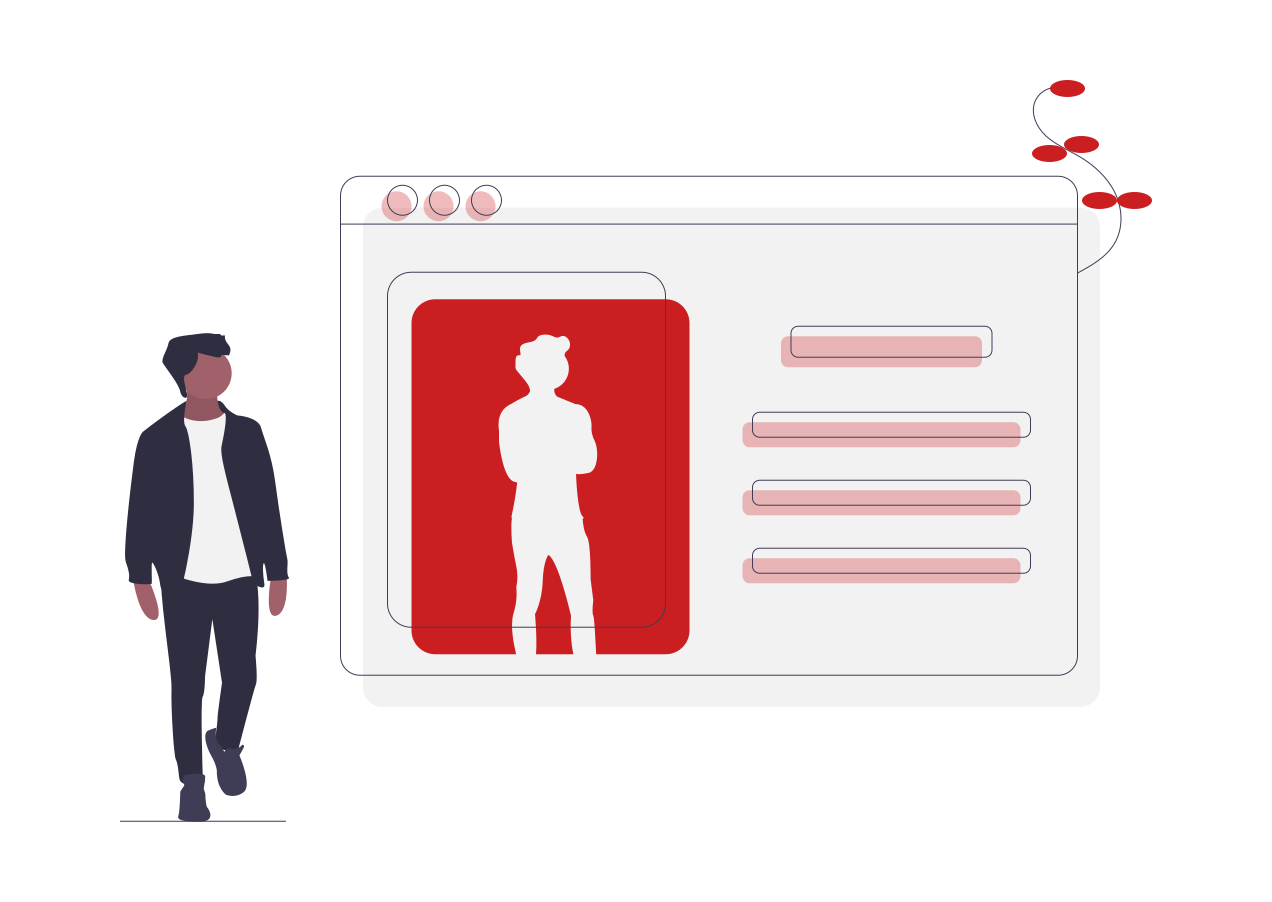
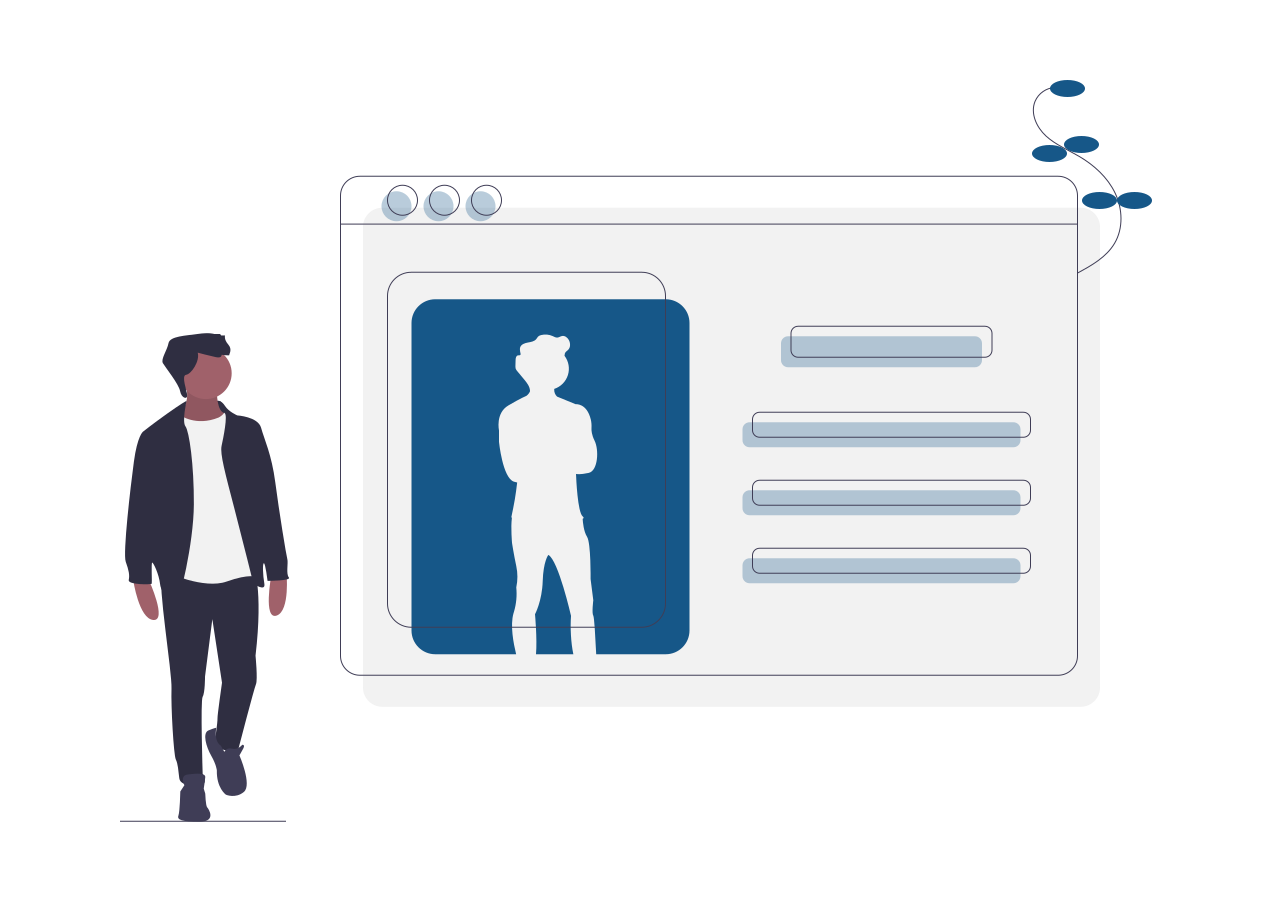
Bugfix - Theme Colour (#141)
* bugfix: fixed the default owner story

* bugfix: read owner biography instead of read restaurant bio

* bugfix: fixed the default owner story found in the front page

* bugfix: changed logo to match the approved ones by client

* bugfix: fixed icon showing up for ' ' as external delivery link

* bugfix: initial change of primary & secondary colours

* bugfix: linked footer links

* bugfix: changed webpage logo and name

* bugfix: changed Scarborough Dining to Find Dining Scarborough

* bugfix: fixed image colours to blue

* bugfix: changed navbar to go from chefs to owner stories

* bugfix: updated the footer logo image

diff --git a/client-server/src/app/components/footer/footer.component.html b/client-server/src/app/components/footer/footer.component.html
@@ -6,9 +6,15 @@
         <a class="footer-links" href="#" target="_blank">FAQ</a>
       </div>
       <div class="col">
-        <a class="footer-links" href="#" target="_blank">Restaurant Owners</a>
+        <a
+          class="footer-links"
+          routerLink="all-owners"
+          routerLinkActive="active"
+          target="_blank"
+          >Restaurant Owners</a
+        >
         <br />
-        <a class="footer-links" href="#" target="_blank">Become a Partner</a>
+        <a class="footer-links" (click)="auth.login()">Become a Partner</a>
       </div>
       <div class="col">
         <a class="footer-links" href="#" target="_blank">
@@ -25,12 +31,22 @@
     <br />
     <hr style="background-color: grey;" />
     <div class="footer-bottom-content">
-      <a class="footer-links" href="#" target="_blank">Terms of Service</a>
-      <a class="footer-links" href="#" target="_blank">Privacy Policy</a>
-      <p>
-        <br />
-        © 2020 Team Aqua
-      </p>
+      <div class="row">
+        <div class="col">
+          <img
+            src="assets/images/find_dining_sponsers.png"
+            class="footer-logo"
+          />
+          <p>
+            <br />
+            © 2020 Team Aqua
+          </p>
+        </div>
+        <div class="col">
+          <a class="footer-links" href="#" target="_blank">Terms of Service</a>
+          <a class="footer-links" href="#" target="_blank">Privacy Policy</a>
+        </div>
+      </div>
     </div>
   </div>
 </footer>

diff --git a/client-server/src/app/components/map/map.component.ts b/client-server/src/app/components/map/map.component.ts
@@ -44,7 +44,7 @@ export class MapComponent implements OnInit {
         map.addControl(new mapboxgl.NavigationControl());
 
         // Add map markers
-        var marker = new mapboxgl.Marker({ color: '#FF0000' })
+        var marker = new mapboxgl.Marker({ color: '#0000FF' })
           .setLngLat([position.coords.longitude, position.coords.latitude])
           .setPopup(new mapboxgl.Popup().setHTML('<p>You are here!</p>'))
           .addTo(map);
@@ -54,7 +54,7 @@ export class MapComponent implements OnInit {
           var GEOJson = JSON.parse(index.GEO_location.replace(/\'/g, '"'));
 
           if (index.GEO_location != 'blank' && GEOJson.long != undefined) {
-            var marker = new mapboxgl.Marker({ color: '#CB1E21' })
+            var marker = new mapboxgl.Marker({ color: '#165788' })
               .setLngLat([GEOJson.long, GEOJson.lat])
               .setPopup(
                 new mapboxgl.Popup().setHTML(

diff --git a/client-server/src/app/components/navbar/navbar.component.html b/client-server/src/app/components/navbar/navbar.component.html
@@ -1,5 +1,6 @@
 <nav class="navbar navbar-expand-lg">
-  <img src="../../../assets/images/scarborough_dining.png" class="logo" />
+  <img src="../../../assets/images/find_dining_logo.png" class="logo" />
+  <img src="../../../assets/images/find_dining_name.png" class="name" />
   <button
     class="navbar-toggler"
     type="button"
@@ -57,7 +58,7 @@
               Timeline
             </button>
             <button ngbDropdownItem (click)="owners()">
-              Chefs
+              Owner Stories
             </button>
           </div>
         </div>
@@ -75,7 +76,7 @@
       </li>
       <li class="nav-item nav-link" *ngIf="!auth.loggedIn">
         <a routerLinkActive="active" class="nav-link" (click)="owners()">
-          CHEFS
+          OWNER STORIES
         </a>
       </li>
       <li *ngIf="role == 'BU'" class="nav-item nav-link">

diff --git a/client-server/src/app/pages/home/home.component.html b/client-server/src/app/pages/home/home.component.html
@@ -89,7 +89,7 @@
     <div class="carousel-caption d-none d-md-block">
       <h2>Something for Everyone</h2>
       <p>
-        Scarborough Dining has a wide variety of cuisines to cater for all
+        Find Dining Scarborough has a wide variety of cuisines to cater for all
         dietrary restrictions
       </p>
     </div>
@@ -149,8 +149,8 @@
     />
     <h2>Connect</h2>
     <p>
-      Become a partner of Scarborough Dining to help spread awareness of great
-      cuisines in Scarborough.
+      Become a partner of Find Dining Scarborough to help spread awareness of
+      great cuisines in Scarborough.
     </p>
   </div>
   <div class="col overview-grid">

diff --git a/client-server/src/styles.scss b/client-server/src/styles.scss
@@ -1,16 +1,16 @@
 @import "~@angular/material/theming";
 @include mat-core();
 
-$client-theme-primary: mat-palette($mat-red);
-$client-theme-accent: mat-palette($mat-pink, A200, A100, A400);
+$client-theme-primary: mat-palette($mat-blue);
+$client-theme-accent: mat-palette($mat-blue, A200, A100, A400);
 $client-theme-theme: mat-light-theme(
   $client-theme-primary,
   $client-theme-accent
 );
 @include angular-material-theme($client-theme-theme);
 
-$primary-color: rgb(155, 50, 50);
-$secondary-color: rgb(189, 96, 96);
+$primary-color: rgb(22, 87, 136);
+$secondary-color: rgb(0, 153, 204);
 $dark-color: rgb(7, 27, 48);
 $grey-color: #dddddd;
 

diff --git a/client-server/src/app/components/navbar/navbar.component.ts b/client-server/src/app/components/navbar/navbar.component.ts
@@ -14,7 +14,7 @@ import { NgbModal } from '@ng-bootstrap/ng-bootstrap';
   styleUrls: ['./navbar.component.scss'],
 })
 export class NavbarComponent implements OnInit, AfterViewInit {
-  title: string = 'Scarborough Dining';
+  title: string = 'Find Dining Scarborough';
 
   restaurantId: string = '';
   role: string = '';
@@ -39,7 +39,7 @@ export class NavbarComponent implements OnInit, AfterViewInit {
     if (window.innerWidth < 650) {
       this.title = 'SDining';
     } else {
-      this.title = 'Scarborough Dining';
+      this.title = 'Find Dining Scarborough';
     }
   }
 

diff --git a/client-server/src/app/pages/all-owners/all-owners.component.html b/client-server/src/app/pages/all-owners/all-owners.component.html
@@ -1,7 +1,7 @@
 <div class="owner-page">
   <div class="owner-listings-box">
-    <h2>Scarborough Dining Owners</h2>
-    <p>Meet the faces of Scarborough Dining and their culinary story</p>
+    <h2>Find Dining Scarborough Owners</h2>
+    <p>Meet the faces of Find Dining Scarborough and their culinary story</p>
     <div class="row">
       <div class="col-md-1"></div>
       <div class="col-md-10">

diff --git a/client-server/src/app/components/footer/footer.component.ts b/client-server/src/app/components/footer/footer.component.ts
@@ -1,4 +1,5 @@
 import { Component, OnInit } from '@angular/core';
+import { AuthService } from '../../auth/auth.service';
 import {
   faFacebookSquare,
   faTwitter,
@@ -15,7 +16,7 @@ export class FooterComponent implements OnInit {
   faTwitter = faTwitter;
   faInstagram = faInstagram;
 
-  constructor() {}
+  constructor(public auth: AuthService) {}
 
   ngOnInit(): void {}
 }

diff --git a/client-server/src/app/components/footer/footer.component.scss b/client-server/src/app/components/footer/footer.component.scss
@@ -12,7 +12,7 @@ footer {
   color: $footer-text-color;
 
   @media screen and (max-width: 700px) {
-    margin: 30px;
+    margin: 20px;
   }
 }
 
@@ -37,4 +37,13 @@ footer {
 
 .footer-icons:hover {
   color: white;
+}
+
+.footer-logo {
+  width: 250px;
+  height: auto;
+
+  @media screen and (max-width: 700px) {
+    width: 100px;
+  }
 }

diff --git a/client-server/src/index.html b/client-server/src/index.html
@@ -2,7 +2,7 @@
 <html lang="en">
   <head>
     <meta charset="utf-8" />
-    <title>Scarborough Dining</title>
+    <title>Find Dining Scarborough</title>
     <base href="/" />
     <meta name="viewport" content="width=device-width, initial-scale=1" />
     <link rel="icon" type="image/x-icon" href="favicon.ico" />

diff --git a/client-server/src/app/pages/payment/payment.component.html b/client-server/src/app/pages/payment/payment.component.html
@@ -170,7 +170,7 @@
         </div>
       </div>
       <div class="submit">
-        <button class="btn btn-outline-secondary">Pay Now!</button>
+        <button class="btn">Pay Now!</button>
       </div>
     </form>
   </div>

diff --git a/client-server/src/app/components/navbar/navbar.component.scss b/client-server/src/app/components/navbar/navbar.component.scss
@@ -5,6 +5,13 @@
   width: auto;
 }
 
+.name {
+  height: 50px;
+  width: auto;
+  padding-left: 10px;
+  padding-right: 10px;
+}
+
 .navbar {
   background-color: $primary-color;
   z-index: 100;
